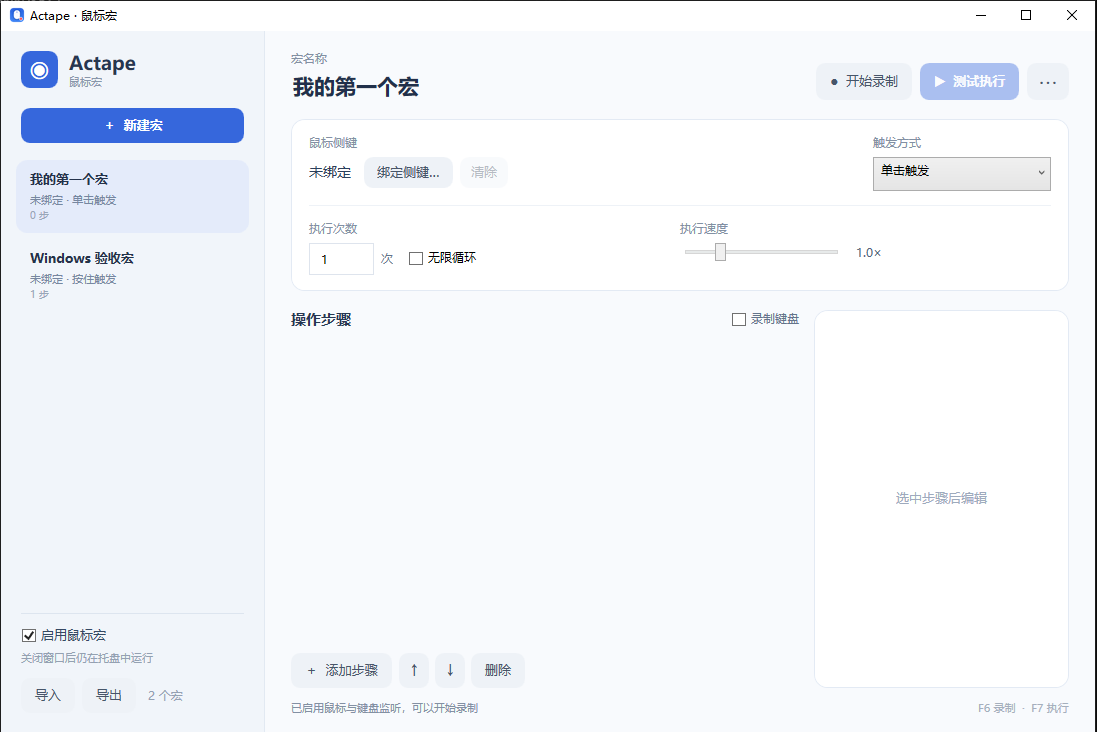
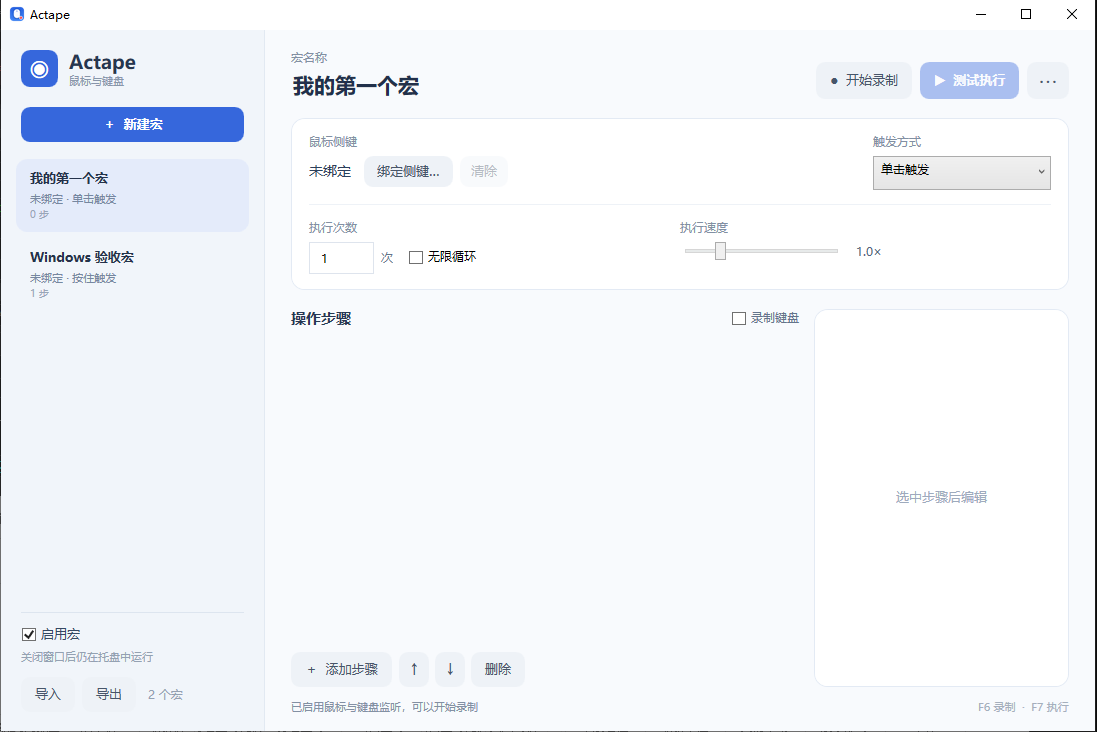
fix(ui): clarify keyboard support and refresh product screenshot

diff --git a/Windows/Actape.Windows/MainWindow.xaml b/Windows/Actape.Windows/MainWindow.xaml
@@ -1,7 +1,7 @@
 <Window x:Class="Actape.Windows.MainWindow" x:Name="Root"
         xmlns="http://schemas.microsoft.com/winfx/2006/xaml/presentation"
         xmlns:x="http://schemas.microsoft.com/winfx/2006/xaml"
-        Title="Actape · 鼠标宏" Icon="Resources/Actape.ico" Width="1110" Height="740"
+        Title="Actape" Icon="Resources/Actape.ico" Width="1110" Height="740"
         MinWidth="930" MinHeight="590"
         WindowStartupLocation="CenterScreen"
         FontFamily="Microsoft YaHei UI"
@@ -82,7 +82,7 @@
                         </Border>
                         <StackPanel VerticalAlignment="Center">
                             <TextBlock Text="Actape" FontSize="19" FontWeight="Bold" Foreground="#263650"/>
-                            <TextBlock Text="鼠标宏" FontSize="11" Foreground="#8896AA"/>
+                            <TextBlock Text="鼠标与键盘" FontSize="11" Foreground="#8896AA"/>
                         </StackPanel>
                     </StackPanel>
                     <Button Content="＋  新建宏" Style="{StaticResource PrimaryButton}" Click="NewMacro_Click"/>
@@ -90,7 +90,7 @@
                 <StackPanel DockPanel.Dock="Bottom" Margin="20,10,20,19">
                     <Border BorderBrush="#DDE5EF" BorderThickness="0,1,0,0" Margin="0,0,0,14"/>
                     <CheckBox x:Name="EnableCheck" IsChecked="True" Checked="EnableCheck_Changed" Unchecked="EnableCheck_Changed"
-                              Content="启用鼠标宏" FontSize="13" Foreground="#354862" VerticalAlignment="Center"/>
+                              Content="启用宏" FontSize="13" Foreground="#354862" VerticalAlignment="Center"/>
                     <TextBlock Text="关闭窗口后仍在托盘中运行" Foreground="#94A1B2" FontSize="11" Margin="0,7,0,13"/>
                     <StackPanel Orientation="Horizontal">
                         <Button Content="导入" Style="{StaticResource QuietButton}" Margin="0,0,7,0" Click="Import_Click"/>

diff --git a/Windows/Actape.Windows/MainWindow.xaml.cs b/Windows/Actape.Windows/MainWindow.xaml.cs
@@ -554,7 +554,7 @@ public partial class MainWindow : Window, INotifyPropertyChanged
             _player.Stop();
             _physicalDown.Clear();
         }
-        StatusText = _enabled ? "已启用所有鼠标宏" : "已暂停：鼠标侧键恢复原有功能";
+        StatusText = _enabled ? "已启用所有宏" : "已暂停：鼠标侧键恢复原有功能";
     }
 
     private void Import_Click(object sender, RoutedEventArgs e)
@@ -598,12 +598,12 @@ public partial class MainWindow : Window, INotifyPropertyChanged
         _tray = new WinForms.NotifyIcon
         {
             Visible = true,
-            Text = "Actape 鼠标宏",
+            Text = "Actape",
             Icon = System.Drawing.Icon.ExtractAssociatedIcon(Environment.ProcessPath!) ?? System.Drawing.SystemIcons.Application
         };
         var menu = new WinForms.ContextMenuStrip();
         menu.Items.Add("打开 Actape", null, (_, _) => Dispatcher.Invoke(ShowWindow));
-        menu.Items.Add("启用 / 暂停鼠标宏", null, (_, _) =>
+        menu.Items.Add("启用 / 暂停宏", null, (_, _) =>
             Dispatcher.Invoke(() => EnableCheck.IsChecked = EnableCheck.IsChecked != true));
         menu.Items.Add("停止当前执行", null, (_, _) => Dispatcher.Invoke(() => _player.Stop()));
         menu.Items.Add(new WinForms.ToolStripSeparator());

diff --git a/README.en.md b/README.en.md
@@ -16,7 +16,7 @@
 
 <p align="center">
 <img src="docs/windows-preview.png" width="94%" alt="Actape native Windows interface">
-<br><sub>Native Windows interface · Stable v1.0.0</sub>
+<br><sub>Native Windows interface · Stable v1.0.1</sub>
 </p>
 
 Actape is a native macro utility for macOS and Windows. Record repetitive mouse and keyboard actions, edit them as steps, bind a macro to a physical mouse side button, and replay it when needed. **One lightweight app for recording, editing, triggering, and playback—without a separate mouse-remapping utility.**
@@ -46,7 +46,7 @@ The current macOS version supports tap-to-trigger. **Hold-to-repeat with stop-on
 
 ## Windows
 
-**Status:** Windows v1.0.0 released
+**Status:** Windows v1.0.1 released
 
 A native WPF implementation using Win32 low-level mouse/keyboard hooks and `SendInput`. It is implemented independently from the macOS app and does not require a separate remapping driver.
 
@@ -56,11 +56,11 @@ A native WPF implementation using Win32 low-level mouse/keyboard hooks and `Send
 - Configure each macro for tap-to-trigger or hold-to-repeat, stopping on release.
 - System-tray operation, automatic persistence, and JSON import/export.
 
-Windows v1.0.0 has been released after local build, standalone EXE launch, UI checks, and hands-on testing.
+Windows v1.0.1 has been released after local build, standalone EXE launch, UI checks, and hands-on testing.
 
 ## Download
 
-**Actape v1.0.0 is officially released.** Download installers from [GitHub Releases](https://github.com/rizetngan/Actape/releases/tag/v1.0.0).
+**Actape v1.0.1 is officially released.** Download installers from [GitHub Releases](https://github.com/rizetngan/Actape/releases/tag/v1.0.1).
 
 - [macOS build and release workflow](https://github.com/rizetngan/Actape/actions/workflows/build.yml)
 - [Windows build artifacts](https://github.com/rizetngan/Actape/actions/workflows/windows-build.yml)
@@ -72,7 +72,7 @@ The official release provides macOS Universal and Windows x64 packages, plus `SH
 
 ### macOS
 
-1. Download the macOS ZIP from [Releases](https://github.com/rizetngan/Actape/releases/tag/v1.0.0), unzip it, and move Actape.app to Applications.
+1. Download the macOS ZIP from [Releases](https://github.com/rizetngan/Actape/releases/tag/v1.0.1), unzip it, and move Actape.app to Applications.
 2. On first launch, grant Actape the required input permission in System Settings → Privacy & Security → Device Control and Data Access (or Accessibility on older macOS versions).
 3. Start recording, perform the actions, then stop. Edit the steps and test playback.
 4. Bind a mouse side button in the macro details to trigger it directly.

diff --git a/Windows/README.md b/Windows/README.md
@@ -1,4 +1,4 @@
-# Actape for Windows · v1.0.0
+# Actape for Windows · v1.0.1
 
 Actape 的原生 Windows 实现。使用一个 App 完成鼠标与键盘操作录制、步骤编辑、侧键绑定和宏回放。
 
@@ -23,9 +23,9 @@ Windows 版本独立实现，不复用 macOS 的 AppKit / CoreGraphics 代码。
 
 ## 下载与状态
 
-Actape for Windows 已作为 v1.0.0 正式版发布，已完成本机编译、独立 EXE 启动、基本界面交互与用户实机测试。
+Actape for Windows 已作为 v1.0.1 正式版发布，已完成本机编译、独立 EXE 启动、基本界面交互与用户实机测试。
 
-正式版请从 [GitHub Releases](https://github.com/rizetngan/Actape/releases/tag/v1.0.0) 下载。开发构建日志可在 [Windows workflow](https://github.com/rizetngan/Actape/actions/workflows/windows-build.yml) 查看。
+正式版请从 [GitHub Releases](https://github.com/rizetngan/Actape/releases/tag/v1.0.1) 下载。开发构建日志可在 [Windows workflow](https://github.com/rizetngan/Actape/actions/workflows/windows-build.yml) 查看。
 
 ## 构建
 

diff --git a/docs/RELEASE_NOTES_v1.0.1.md b/docs/RELEASE_NOTES_v1.0.1.md
@@ -1,0 +1,24 @@
+# Actape v1.0.1 ? ??????
+
+Actape ?????**????????**????????????????
+
+## ????
+
+- Windows ?????????????????????????????
+- ???????????? **Actape**??????????????????
+- ?? GitHub ??????? Windows ???????
+- ??????????? v1.0.1?????????????
+
+## ??
+
+- **macOS?Apple Silicon / Intel??** `Actape-macOS-v1.0.1-universal.zip`
+- **Windows?x64??** `Actape-Windows-v1.0.1-win-x64.zip`
+- **???** `SHA256SUMS.txt`
+
+## ????
+
+???????????????????????????????Windows ??????????????macOS ??????????????????
+
+macOS ????????????????????????????????Windows ??????????????
+
+[Actape GitHub](https://github.com/rizetngan/Actape) ? [MIT License](https://github.com/rizetngan/Actape/blob/main/LICENSE)
